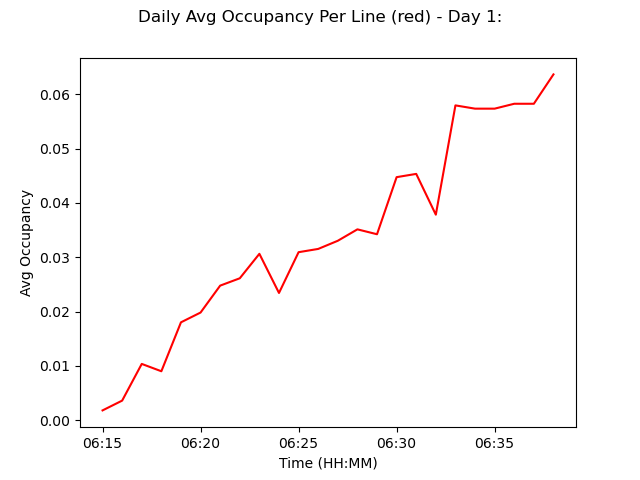
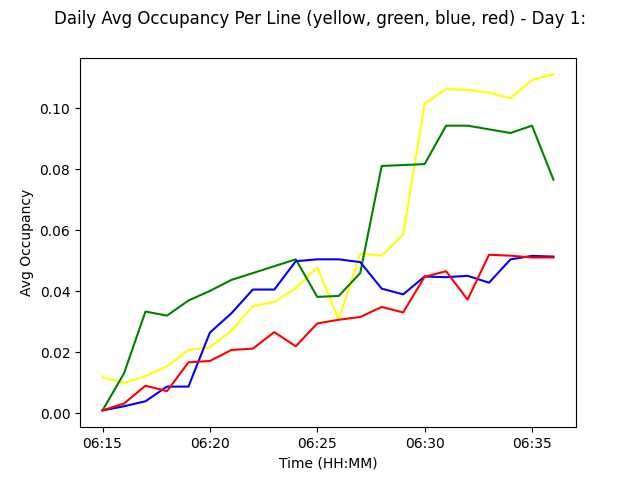
added average smoothing

diff --git a/src/Utils/Reporter.py b/src/Utils/Reporter.py
@@ -98,57 +98,72 @@ class Reporter:
 
 
 
-    def plot_average_occupancy(self, show_plots):
-        if path.exists('../plots/daily_average_occupancy_day'+ str(self.day) + '.png'):
-            os.remove('../plots/daily_average_occupancy_day' + str(self.day) + '.png')
+    def plot_average_occupancy(self,show_plots):
+        if path.exists('../plots/daily_average_occupancy_day' + str(self.day) + '.png'):
+            os.remove('../plots/daily_average_occupancy_day'  + str(self.day) + '.png')
 
         fig = plt.figure()
-        fig.suptitle('Daily Avg Occupancy Per Line '
-                    + self.format_title_metro_colors() + ':', fontsize=12)
+        fig.suptitle('Daily Avg Occupancy Per Line ' + self.format_title_metro_colors() + ":", fontsize=12)
         plt.xlabel('Time (HH:MM)')
         plt.ylabel('Avg Occupancy')
         xformatter = matplotlib.dates.DateFormatter('%H:%M')
-        for color in flags['colors']:
+        for color in flags["colors"]:
 
             y = self.avg_train_occupancy[color]
             x = self.hours
-
-            if flags['opt'] != None:
-                (x, y) = self.apply_options(flags['opt'], x, y)
 
             nx = []
             for i in x:
                 nx.append(datetime.datetime.combine(datetime.date.min, i))
 
-            size = min(len(y), len(nx)) - 1
+            size = min(len(y),len(nx)) -1
 
             x = nx[0:size]
-            y = y[0:size]
+            y= y[0:size]
 
-            plt.plot(x, y, color)  # plot
+            if(flags["opt"] != None): x,y = self.apply_options(flags["opt"],x,y)
 
-            if flags['std'] == True:
+
+            plt.plot(x, y,color) #plot
+
+            if(flags["std"] == True):
                 error = np.random.normal(0.1, 0.02, size=len(y))
-                plt.fill_between(x, y - error, y + error, color=color, alpha=0.4)
+                plt.fill_between(x, y-error,y+error, color=color,alpha=0.4)
 
             plt.gcf().axes[0].xaxis.set_major_formatter(xformatter)
 
-        print('Showing daily average occupancy...')
-        plt.savefig('../plots/daily_average_occupancy_day' + str(self.day)
-                    + '.png')
 
-        if show_plots:
-            plt.show()
+        print("Showing daily average occupancy...")
+        plt.savefig('../plots/daily_average_occupancy_day' + str(self.day)  + '.png')
+        
+        if show_plots: plt.show()
 
         plt.close(fig)
-        print('Saved daily average occupancy...')
+        print("Saved daily average occupancy...")
 
 
     def apply_options(self,opt,x,y):
-        if(flags["opt"] == "smooth"):
+        if flags["opt"] == "smooth" :
             x = [x[i] for i in range(len(x)) if i % 15 == 0]
             y = [y[i] for i in range(len(y)) if i % 15 == 0]
-        return x,y
+
+        elif flags["opt"] == "avg":
+            avg_time = 5
+            avg_x = []
+            avg_y = []
+            #print("o tamanaho de x e : " + str(len(x)))
+            #print("o tamanho de y e: " + str(len(y)))
+            #exit()
+            for ind in range(0,len(y)):
+                if ind == 0:
+                    avg_y.append(y[0])
+                    avg_x.append(x[ind])
+                elif ind % avg_time == 0:
+                    numerador = (sum(y[ind-avg_time:ind]))
+                    denominador = len(y[ind-avg_time:ind])
+                    avg_y.append(numerador/denominador) 
+                    avg_x.append(x[ind])
+        return avg_x, avg_y
 
 
     def plot_average_waiting_time(self,show_plots):
@@ -165,9 +180,7 @@ class Reporter:
             y = self.avg_waiting_time_hour[color]
             x = self.hours
 
-            if(flags["opt"] != None): x,y = self.apply_options(flags["opt"],x,y)
-
-
+            
             nx = []
             for i in x:
                 nx.append(datetime.datetime.combine(datetime.date.min, i))
@@ -176,13 +189,13 @@ class Reporter:
             x = nx[0:size]
             y = y[0:size]
 
+            if(flags["opt"] != None): x,y = self.apply_options(flags["opt"],x,y)
+
+
             plt.plot(x, y,color) #plot
 
             if(flags["std"] == True):
-
-
                 error = np.random.normal(0.1, 0.02, size=len(y))
-
 
                 plt.fill_between(x, y-error,y+error, color=color,alpha=0.4)
 
